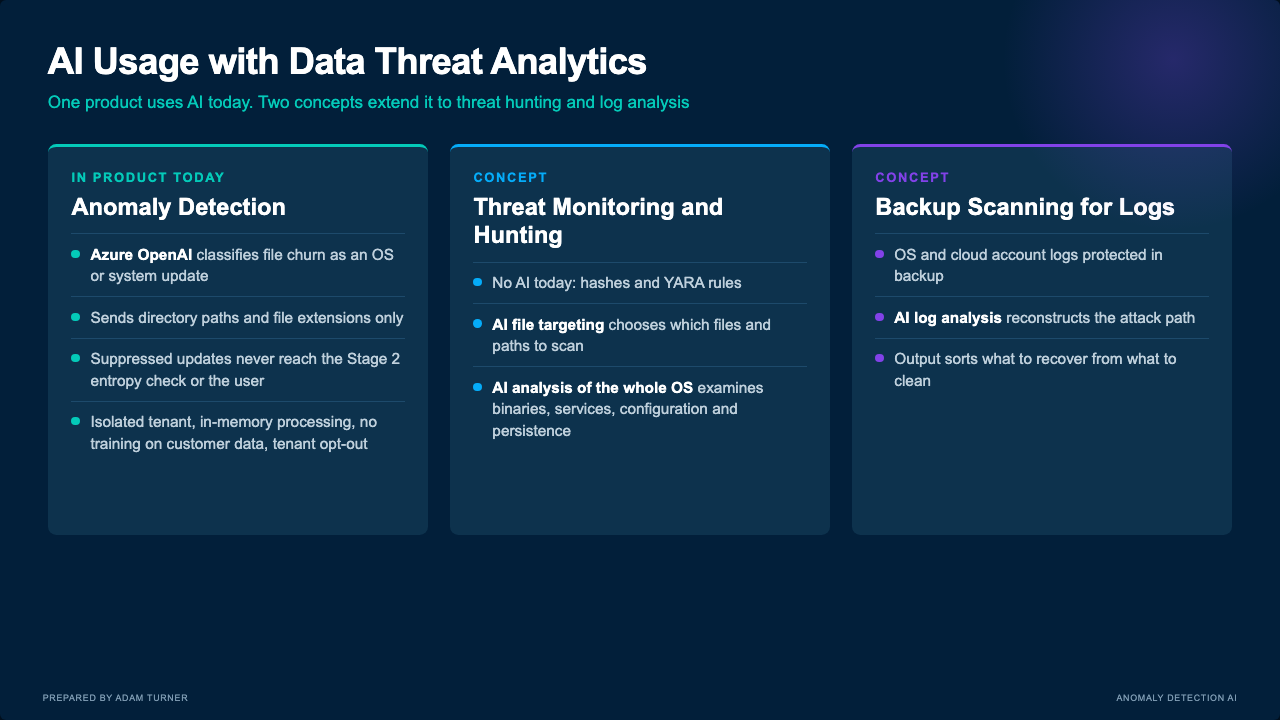
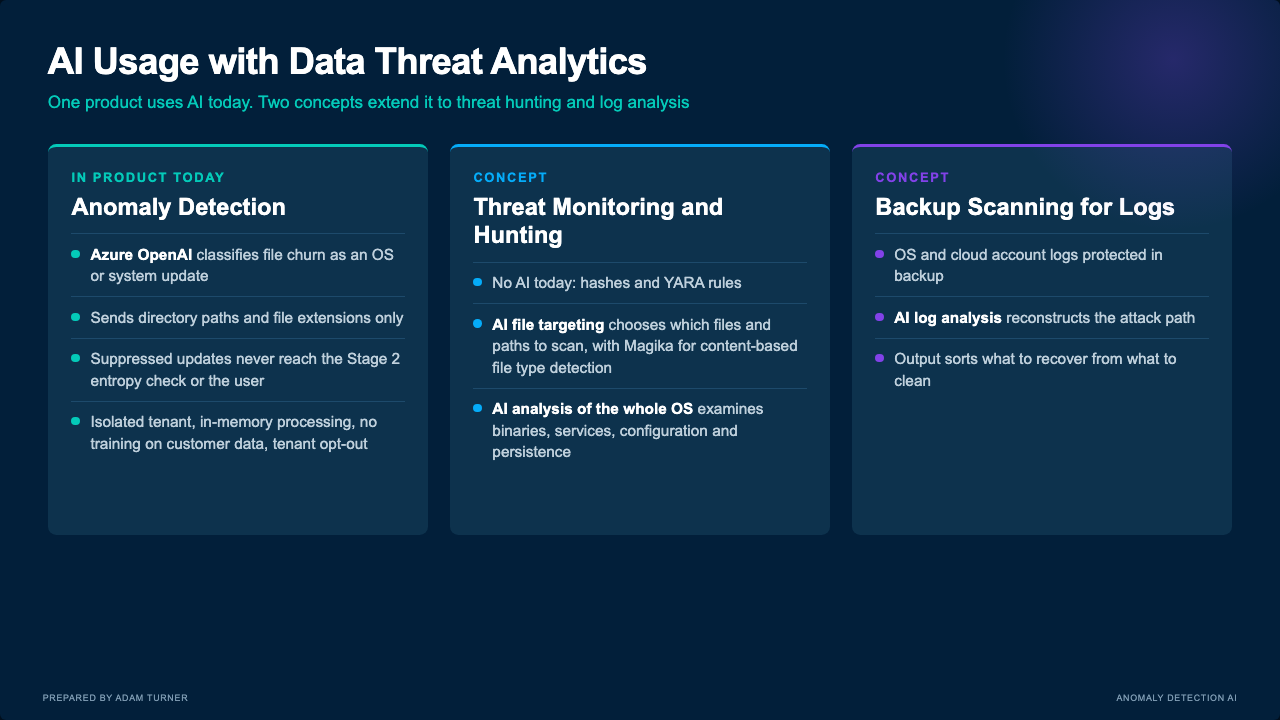
Add Magika to threat monitoring AI ideas

Changed region(s): [[0.375, 0.4583, 0.625, 0.6417]]

diff --git a/index.html b/index.html
@@ -248,6 +248,7 @@ h1{font-size:3.1cqw;font-weight:700;letter-spacing:-.02em;line-height:1.1}
         <li>Prioritizes files by location, type and recent change</li>
         <li>Narrows scan scope on each snapshot</li>
         <li>Shortens time to a verdict across many snapshots</li>
+        <li><b style="color:#fff">Magika</b> (Google, open source) identifies true file type from content, not extension: 200+ types, ~99% accuracy, ~5 ms per file</li>
       </ul>
       <div class="scope"><div class="lab">Files examined by AI</div>
         <div class="fs"><i></i><i class="on"></i><i></i><i></i><i class="on"></i><i></i><i></i><i class="on"></i><i class="on"></i><i></i><i></i><i class="on"></i></div></div>
@@ -360,7 +361,7 @@ h1{font-size:3.1cqw;font-weight:700;letter-spacing:-.02em;line-height:1.1}
       <h2>Threat Monitoring and Hunting</h2>
       <ul>
         <li>No AI today: hashes and YARA rules</li>
-        <li><b>AI file targeting</b> chooses which files and paths to scan</li>
+        <li><b>AI file targeting</b> chooses which files and paths to scan, with Magika for content-based file type detection</li>
         <li><b>AI analysis of the whole OS</b> examines binaries, services, configuration and persistence</li>
       </ul>
     </div>
